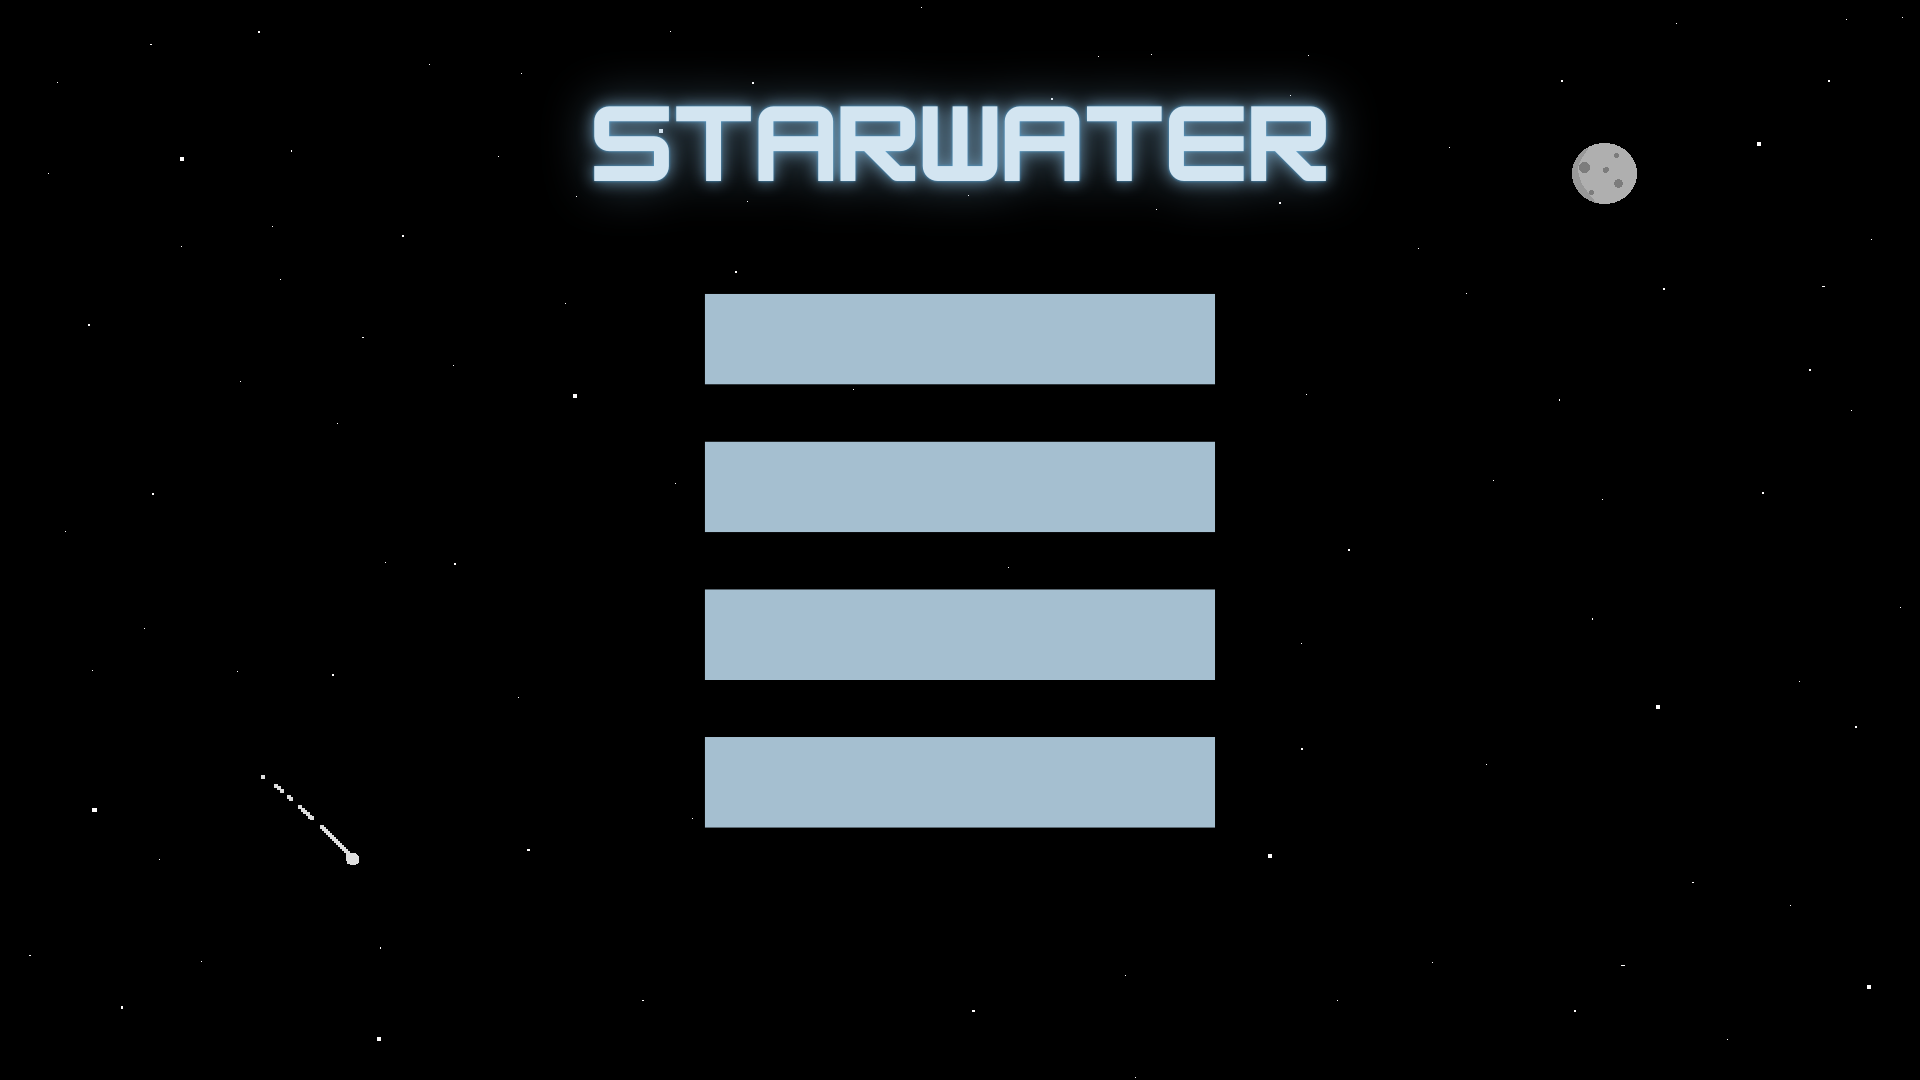
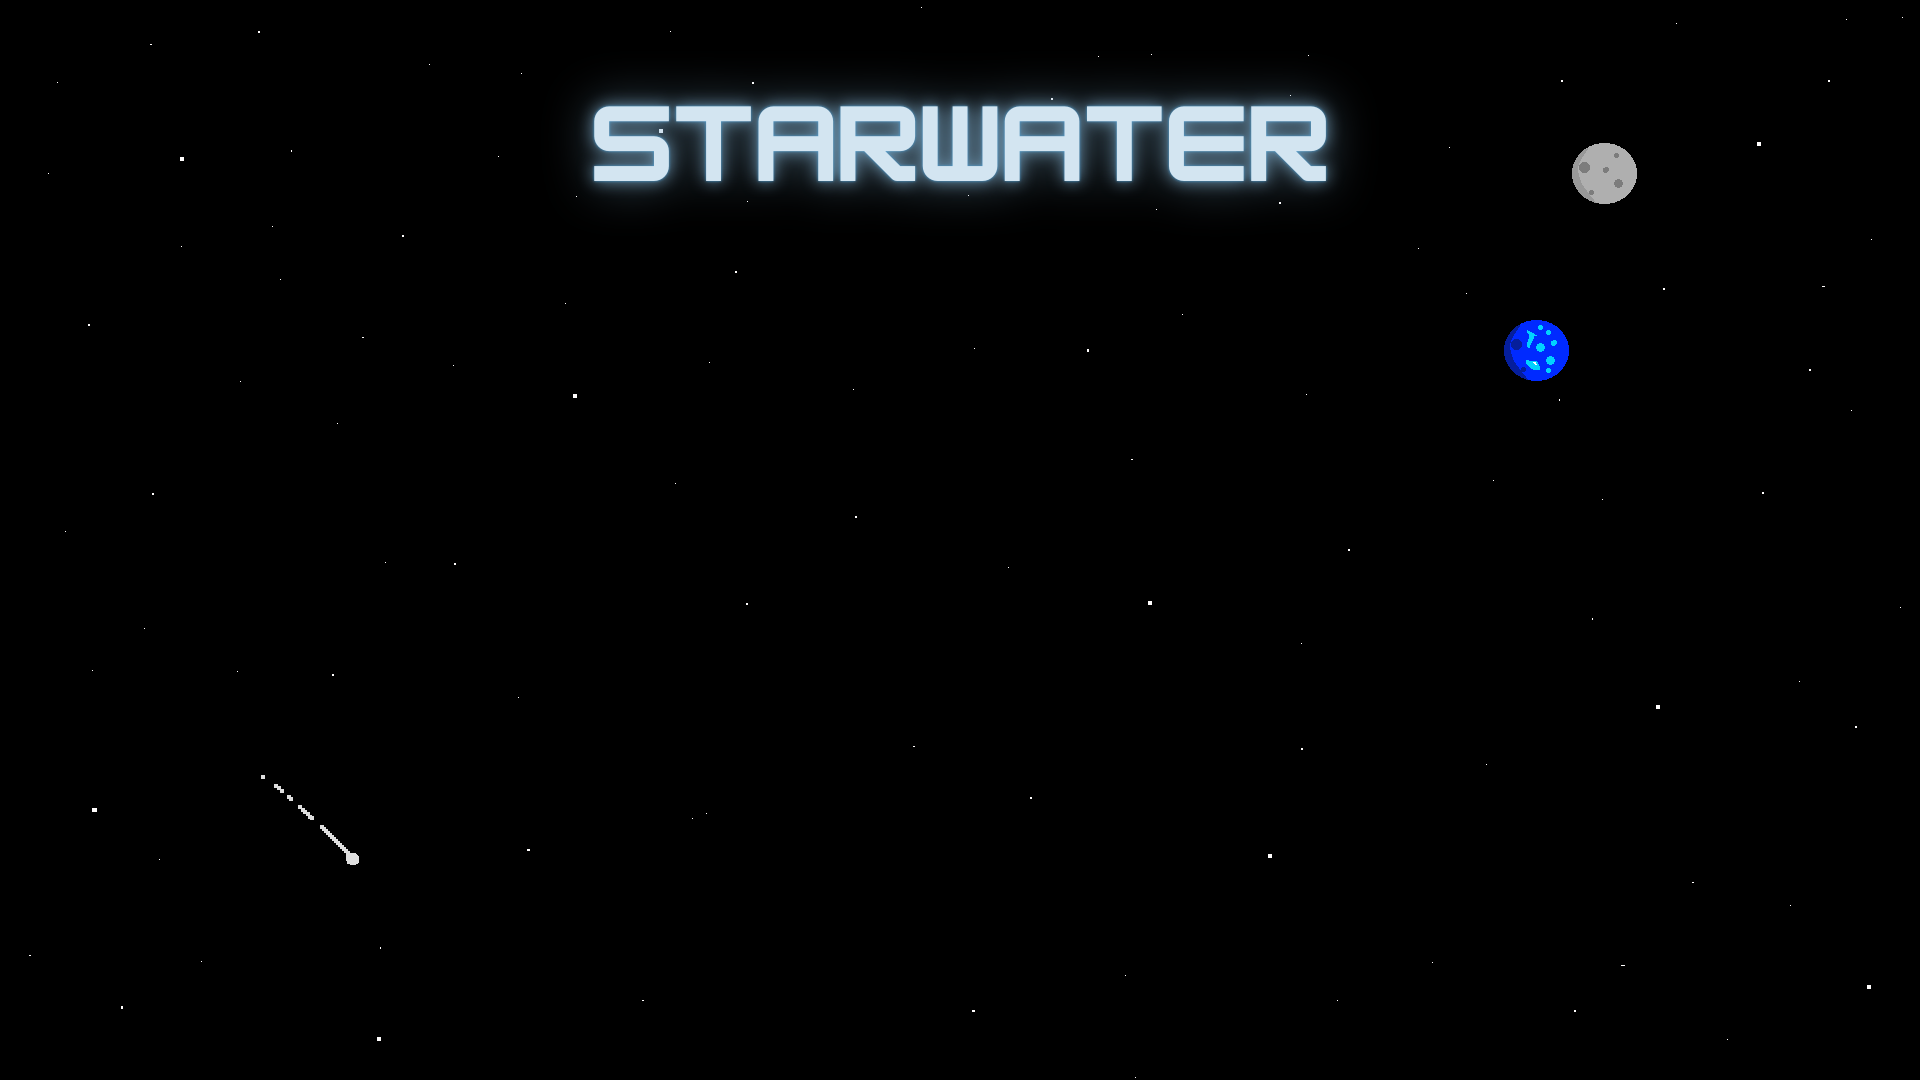
ajout de l'activation de la phase du boss dans l'éditeur

diff --git a/shoot'em up/Game.cpp b/shoot'em up/Game.cpp
@@ -140,9 +140,6 @@ void Game::activateBonus(Bonus::AllBonus bonusType)
 	case Bonus::TripleShootingDiag:
 		fireRate = 15;
 		break;
-	case Bonus::Laser:
-		fireRate = 1;
-		break;
 	case Bonus::Shield:
 		if (bonusActive[Bonus::OffensiveShield]) {
 			deactivateBonus(Bonus::OffensiveShield);
@@ -172,10 +169,6 @@ void Game::deactivateBonus(Bonus::AllBonus bonusType)
 
 	bonusActive[bonusType] = false;
 	switch (bonusType) {
-	case Bonus::Laser:
-		bonusShotCount = 0;
-		fireRate = 15;
-		break;
 	case Bonus::Shield:
 		this->player->resetSprite();
 		canHaveDamaged = false;
@@ -279,6 +272,22 @@ void Game::changeHealthEnnemy2Min(int hp)
 {
 	if (newPvPassif > 1) {
 		newPvPassif -= hp;
+	}
+}
+
+void Game::activatePhaseBoss()
+{
+	if (vagueActif && scoreBoss < spawnBoss) {
+		scoreBoss = spawnBoss;
+		vagueActif = false;
+	}
+}
+
+void Game::deactivatePhaseBoss()
+{
+	if (!vagueActif) {
+		scoreBoss = 0;
+		vagueActif = true;
 	}
 }
 
@@ -611,6 +620,8 @@ void Game::handleMenuState(Event& event) // gere les etat du jeu
 		}
 	}
 	if (currentState == GameState::EDITOR) {
+		mainMenu.updateEditorTexts(player, newPvAggressif, newPvPassif, player->getSpeed());
+
 		mainMenu.handleMouseHover(*window);
 		int editorAction = mainMenu.handleInputEditor(*window, event);
 		switch (editorAction) {
@@ -645,6 +656,12 @@ void Game::handleMenuState(Event& event) // gere les etat du jeu
 			changeSpeedEnnemyMin(1);
 			break;
 		case 11: 
+			activatePhaseBoss();
+			break;
+		case 12:
+			deactivatePhaseBoss();
+			break;
+		case 13:
 			currentState = GameState::MENU;
 			break;
 		}
@@ -777,7 +794,6 @@ void Game::initBonus()
 	bonusTexture[Bonus::DoubleShooting].loadFromFile("assets/bonus/bonus_2_projo.png");
 	bonusTexture[Bonus::TripleShooting].loadFromFile("assets/bonus/bonus_3_tir.png");
 	bonusTexture[Bonus::TripleShootingDiag].loadFromFile("assets/bonus/bonus_3_diag.png");
-	bonusTexture[Bonus::Laser].loadFromFile("assets/bonus/bonus_gros_projo.png");
 	bonusTexture[Bonus::Shield].loadFromFile("assets/bonus/bonus_protection.png");
 	bonusTexture[Bonus::HealthKit].loadFromFile("assets/bonus/bonus_soin.png");
 	bonusTexture[Bonus::SlowEnnemyProjectiles].loadFromFile("assets/bonus/bonus_anti-speed.png");
@@ -804,15 +820,15 @@ void Game::spawnBonus()
 	srand(time(0));
 	bonusZones.clear();
 
-	int randBonus1 = rand() % 9;
-	int randBonus2 = rand() % 9;
-	int randBonus3 = rand() % 9;
+	int randBonus1 = rand() % 8;
+	int randBonus2 = rand() % 8;
+	int randBonus3 = rand() % 8;
 
 	while (randBonus1 == randBonus2) {
-		randBonus2 = rand() % 9;
+		randBonus2 = rand() % 8;
 	}
 	while (randBonus1 == randBonus3 || randBonus2 == randBonus3) {
-		randBonus3 = rand() % 9;
+		randBonus3 = rand() % 8;
 	}
 
 	bonus.emplace_back(static_cast<Bonus::AllBonus>(randBonus1), bonusTexture[randBonus1], bonusZones[0]);
@@ -1244,14 +1260,6 @@ void Game::shoot()
 		else if (bonusActive[Bonus::DoubleShooting]) {
 			createProjectilesPlayer(TopplayerX, TopplayerY);
 			createProjectilesPlayer(LowplayerX, LowplayerY);
-		}
-		else if (bonusActive[Bonus::Laser]) {
-			createProjectilesPlayer(MidplayerX, MidplayerY);
-			bonusShotCount++;
-			if (bonusShotCount >= 500) {
-				deactivateBonus(Bonus::Laser);
-				bonusShotCount = 0;
-			}
 		}
 		else if (bonusActive[Bonus::TripleShootingDiag]) {
 			createProjectilesPlayer(MidplayerX, MidplayerY);

diff --git a/shoot'em up/Menu.h b/shoot'em up/Menu.h
@@ -1,6 +1,8 @@
 #pragma once
 #include <string>
 #include "stdafx.h"
+#include "Player.h"
+#include "Ennemy.h"
 
 class Menu
 {
@@ -90,11 +92,15 @@ private:
 	RectangleShape playerHealthMin1, playerHealthMin2;
 	RectangleShape ennemyHealthPlus1, ennemyHealthPlus2, ennemyHealthPlus3;
 	RectangleShape ennemyHealthMin1, ennemyHealthMin2, ennemyHealthMin3;
-	Text lifePlayer;
-	Text speedPlayer;
 
-	Text lifeEnnemy1;
-	Text lifeEnnemy2;
+	RectangleShape activateBossRect;
+	Text activateBossButton;
+	bool bossActivate = false;
+	Text lifePlayer, TextRenderLifePlayer;
+	Text speedPlayer, TextRenderSpeedPlayer;
+
+	Text lifeEnnemy1, TextRenderLifeEnemy1;
+	Text lifeEnnemy2, TextRenderLifeEnemy2;
 	Text speedEnnemy;
 	
 	Texture playerButtonRight, playerButtonLeft;
@@ -104,10 +110,11 @@ private:
 	Text level1;
 	Text level2;
 	Text level3;
+	Player player1;
 
 public:
 	Menu();
-
+	void updateEditorTexts(Player* player, int newPvAggressif, int newPvPassif, float speed);
 	int handleInputMainMenu(RenderWindow& window, const Event& event);
 	int handleInputMenuOptions(RenderWindow& window, const Event& event);
 	int handleInputDifficulty(RenderWindow& window, const Event& event);

diff --git a/shoot'em up/Game.h b/shoot'em up/Game.h
@@ -114,7 +114,7 @@ private:
 	const int totalBonus = 9;
 	bool vagueActif;
 	int spawnBonusPhase;
-	int bonusKit = 2;
+	int bonusKit = 100;
 	void initBonus();
 	void initZones();
 	void initBonusState();
@@ -195,5 +195,7 @@ public:
 	void changeSpeedEnnemyMin(int speed);
 	void changeHealthEnnemy2Min(int hp);
 
+	void activatePhaseBoss();
+	void deactivatePhaseBoss();
 };
 

diff --git a/shoot'em up/Boss.cpp b/shoot'em up/Boss.cpp
@@ -38,7 +38,6 @@ void Boss::initSprite()
         cout << "Erreur";
     }
 
-
     if (!this->robot1.loadFromFile("assets/boss/droide_du_haut.png")) {
         cout << "Erreur";
     }

diff --git a/shoot'em up/Bonus.h b/shoot'em up/Bonus.h
@@ -7,7 +7,6 @@ public:
 		DoubleShooting,
 		TripleShooting,
 		TripleShootingDiag,
-		Laser,
 		Shield,
 		HealthKit,
 		SlowEnnemyProjectiles,
